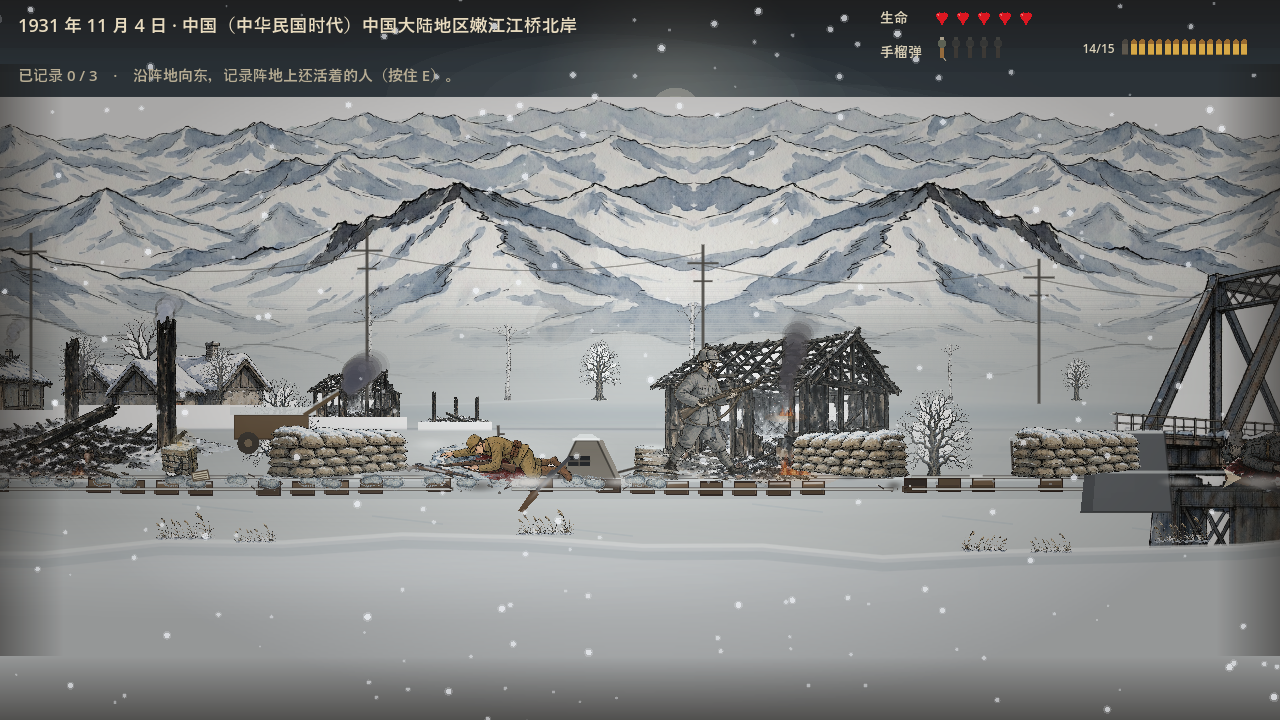
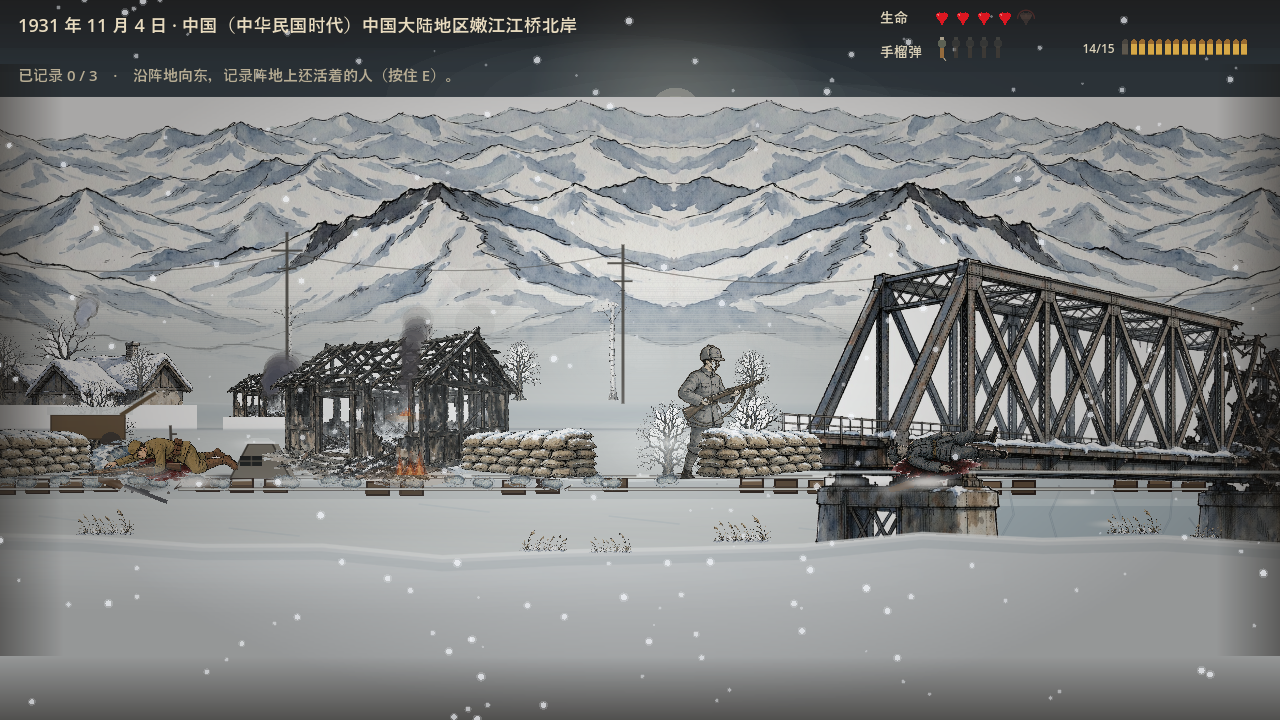
v3.15 truss see-through plus west-abutment grey box removal: the flat grey slab behind the sandbag wall was a code-drawn abutment in DrawBridge() - bridge.png already ships a full concrete pier with an ice breaker, so the extra slab was redundant, sat about 100px left of that pier, and sliced the tr

diff --git a/scripts/JiangqiaoLevel.cs b/scripts/JiangqiaoLevel.cs
@@ -2968,29 +2968,12 @@ public partial class JiangqiaoLevel : Node2D
                 // deck and the pier feet bury below the ice.
                 DrawTextureRect(_bridgeTex, new Rect2(bx, GroundY - 2f - 0.53f * bh, bw, bh), false);
 
-                // v2.9 float fix, part 1: west abutment. The truss used to just
-                // stop in mid-air at the span start - no support, no ground
-                // contact, whole bridge read like it was levitating. A concrete
-                // abutment under the west end seats the truss into the ground.
-                var abut = new[]
-                {
-                    new Vector2(start - 14f, GroundY - 46f),
-                    new Vector2(start + 62f, GroundY - 46f),
-                    new Vector2(start + 70f, GroundY + 34f),
-                    new Vector2(start - 22f, GroundY + 34f),
-                };
-                DrawColoredPolygon(abut, new Color(0.40f, 0.42f, 0.44f));
-                DrawPolyline(abut, new Color(0.20f, 0.21f, 0.22f, 0.85f), 1.6f, true);
-                // abutment shading + snow cap, same manga treatment as the piers
-                DrawColoredPolygon(new[]
-                {
-                    new Vector2(start - 14f, GroundY - 46f),
-                    new Vector2(start - 4f, GroundY - 46f),
-                    new Vector2(start - 10f, GroundY + 34f),
-                    new Vector2(start - 22f, GroundY + 34f),
-                }, new Color(0.28f, 0.30f, 0.32f, 0.7f));
-                DrawLine(new Vector2(start - 18f, GroundY - 46f), new Vector2(start + 60f, GroundY - 46f),
-                    new Color(0.94f, 0.96f, 0.96f, 0.9f), 3f, true);
+                // v3.15: the code-drawn west abutment is gone for good. It was
+                // a flat grey slab with no texture, parked about 100px left of
+                // the pier bridge.png already draws - so it read as a stray
+                // grey box in front of the sandbag wall, and it sliced the
+                // truss leg off at deck level. The texture's own concrete
+                // pier carries the span, no need for a second support.
                 // fresh snow line on the deck edge, ties the texture into the scene
                 DrawLine(new Vector2(start + 6f, GroundY - 6f), new Vector2(end - 6f, GroundY - 6f),
                     new Color(0.92f, 0.94f, 0.94f, 0.75f), 3f, true);

diff --git a/scripts/Capture.cs b/scripts/Capture.cs
@@ -162,8 +162,14 @@ public partial class Capture : Node
             SaveShot("capture_10b_chimney_moved.png");
             _stage = 17;
         }
-        else if (_stage == 17 && (PlayerX() > 2760f || _t > 30f))
+        else if (_stage == 17 && (PlayerX() > 4300f || _t > 42f))
         {
+            // v3.15: was PlayerX() > 2760 - that fired while the runner was
+            // still halfway down the level, so the "burnt village" frame
+            // landed wherever the frame timing happened to stop him and the
+            // bridge often fell outside the shot. Wait until he reaches the
+            // bridge itself so the frame always shows the burnt village AND
+            // the span, and stops drifting from run to run.
             GD.Print("CAPTURE stage17 -> shot burnt village x="+PlayerX());
             SaveShot("capture_11_burnt.png");
             _stage = 18;

diff --git a/README.md b/README.md
@@ -172,6 +172,23 @@
 - **离屏指引箭头收敛**：纸色箭头透明度 0.9→0.55、缩小约 25%——它扫过场景道具（比如正压在拾取枪上）时不再像场景里的一部分，一眼可辨是 HUD 提示。
 - **图库全量实机刷新（11/11）**：新增 `scripts/CaptureMap.cs` + `scenes/CaptureMap.tscn` 自动巡游标题屏与大地图全流程（读两张纸条→路线显影，结束后还原存档的已读状态），v00–v04 五张 v3.1 时代的旧图全部换成实机新图；v46–v51 六张关卡图同批重拍。README 截图缓存戳统一升到 `?v=3.11`。
 
+### v3.15 钢桁架透空 + 桥西端灰方块根修（白板抠净 / 代码桥台删除）
+
+> 用户复检：桥那一片"背后怪怪的"，沙包后面有个灰色方块，"既然是吊桥那些有空洞看透的，这样不会怪怪吗"。
+
+- **① 沙包后面那块灰色方块 = 代码画出来的西桥台**：`JiangqiaoLevel.DrawBridge()` 里有一段 v2.9 加的代码，用平涂灰 `Color(0.40, 0.42, 0.44)` 画了块混凝土桥台。但 `assets/art/props/bridge.png` **本身就带一座完整的混凝土桥墩**（带破冰棱），代码这块灰板不但多余，还比贴图的桥墩**错位了约 100px**，横在沙包前面像一块凭空冒出来的灰砖，还把桁架的左腿**齐刷刷切断**。现在整段删掉——桥面由贴图自带的桥墩承托。
+- **② 桁架空隙里的白板 = 抠图没抠净的"天空"**：`bridge.png` 是照片级素材，桁架的三角形/梯形开口里留着一层**平坦纯白**的原始背景（判据：局部标准差 < 3 且均值 > 240，真积雪都有纹理，std 明显大于 0），所以透过桥洞看出去是**一块死白**，后面的雪山全被挡住。像素级处理：按连通域取"竖长条"形态（面积 ≥ 100、包围盒高 ≥ 40、高 > 宽 × 0.8），30 块白板逐一抠成透明并向外扩 2px 吃掉抗锯齿边；横向的桥面积雪条与墩顶雪帽因高宽比不达标而**自动保留**。实测 43679 px 转透明，桥面雪线连续、钢构件与铆钉无损。
+- **③ 取景点钉死在桥上**：`Capture.cs` 的"焚毁村落"取景阈值是 `PlayerX() > 2760`，玩家还在半路就开拍，镜头每轮都飘、桥常常整个不入镜（上一版 v50 能拍到桥纯属撞运气）。改成 `PlayerX() > 4300`（超时 42s），每轮都稳定停在桥上。
+- **④ 其余十张图一律不动**：关卡图相机在 x ≈ 2000，桥在 4404 之后，**另外五张关卡图根本不含桥**，那 7%–26% 的差异只是雪花、敌兵走动与炊烟的逐轮噪声，与本次改动无关——按"已做好的部分不要动"的规矩，一张都没覆盖，只有含桥的 `v50_jq_burnt.png` 重拍并把它的缓存戳升到 `?v=3.15`。
+
+| 项目 | 改动前 | 改动后 |
+|------|--------|--------|
+| 沙包旁灰方块 | 代码画的西桥台（平涂灰、无纹理），错位在贴图桥墩左侧约 100px | 整块删除，由贴图自带混凝土桥墩承托 |
+| 桁架空洞 | 贴图残留 30 块平坦纯白"天空板"，雪山全被挡死 | 全部抠成透明，桁架空隙直接透出雪山 |
+| 桁架左腿 | 被灰板齐刷刷切断 | 完整连到桥面与桥墩 |
+| v50 取景 | 阈值 2760，每轮随机落在半路，桥常不入镜 | 阈值 4300，稳定停在桥上 |
+| 其余五张关卡图 | — | 镜头在桥外，与本次无关，一张未动 |
+
 ### v3.14 标题屏渲染根修（截图脚本漏铺满，标题被挤到左上角）
 
 > 用户复检：「为什么改变标题？之前的明明就很好。」——**游戏本身没被改**，`scripts/TitleScreen.cs` 自 v3.1 起一行未动。问题出在 v3.11 新增的 `scripts/CaptureMap.cs`：**是我新写的截图脚本把画面拍坏了，不是游戏改坏了。**
@@ -275,6 +292,7 @@
 
 | 版本 | 要点 |
 |------|------|
+| v3.15 | 钢桁架透空 + 桥西端灰方块根修：①沙包旁那块灰方块是代码画的西桥台（平涂灰、无纹理），与贴图自带的混凝土桥墩错位约 100px 还切断桁架左腿 → 整段删除，改由贴图桥墩承托；②bridge.png 抠图残留 30 块平坦纯白"天空板"（局部 std<3 且均值>240），把桥洞后面的雪山全挡死 → 像素级按"竖长条"连通域抠成透明并扩 2px 吃抗锯齿边，桥面积雪与墩顶雪帽自动保留；③Capture 取景阈值 2760→4300，v50 每轮稳定停在桥上；④其余五张关卡图镜头在桥外，与本次无关，一张未动 |
 | v3.14 | 标题屏渲染根修：CaptureMap.SwapTo 漏了 Main.Swap 的 `SetAnchorsAndOffsetsPreset(FullRect)`，TitleScreen 保持 0×0 尺寸 → 背景长城照片没铺开、标题与四个菜单按钮整列挤到左上角（游戏代码自 v3.1 未动，是截图脚本拍坏了）；补上同一句后标题 x 中心 528→639（画布中心 640）、按钮 319→631，地图四图实测零差异，只重拍覆盖 v00_title.png，其余十张图与缓存戳不动 |
 | v3.13 | 用户实机反馈四修 + 手感/性能：地图副标题与方格间距 0→16px（地图块整体下移 9px）、雪山贯穿全屏白线根修（全宽渐变带改细条自算 alpha，硬边 2 条→0 条）、黑烟层级 z=1→-1（烟在人后不再盖住角色）、火烟逐栋随机（受损状态定区间 + 宽度缩放 + 随机取值）、蹲趴速度 0.14 秒过渡 / 跳跃顶点悬停 / 短跳 ×0.55 / 转身惯性 / 落地缓冲接专姿立绘、天空只在时钟变化时重绘、图库 11 张实机刷新 + 标题图重复 bug 修正 |
 | v3.12 | 用户实机反馈遗留 5 项最小修复（v3.11 基础上，不覆盖远端已修项）：枪口黑线移除、记录点方块改圆光晕+倾斜便条、屋内对话 z 序 DialogueUi 25/FieldNoteUi 30、手榴弹自转 9→2.4、房屋屋基下沉 GroundY+8、趴蹲腿摆动画（保留 v2.9 髋闭合基准）；截图待本地重截 |
@@ -387,7 +405,7 @@
 
 **焚毁村落 · 焦柱断壁 + 动态黑烟 + 残火（程序化演出，非贴图）**
 
-![焚毁村落](docs/screenshots/v50_jq_burnt.png?v=3.13)
+![焚毁村落](docs/screenshots/v50_jq_burnt.png?v=3.15)
 
 ## 如何运行（小白版，3 步）
 
